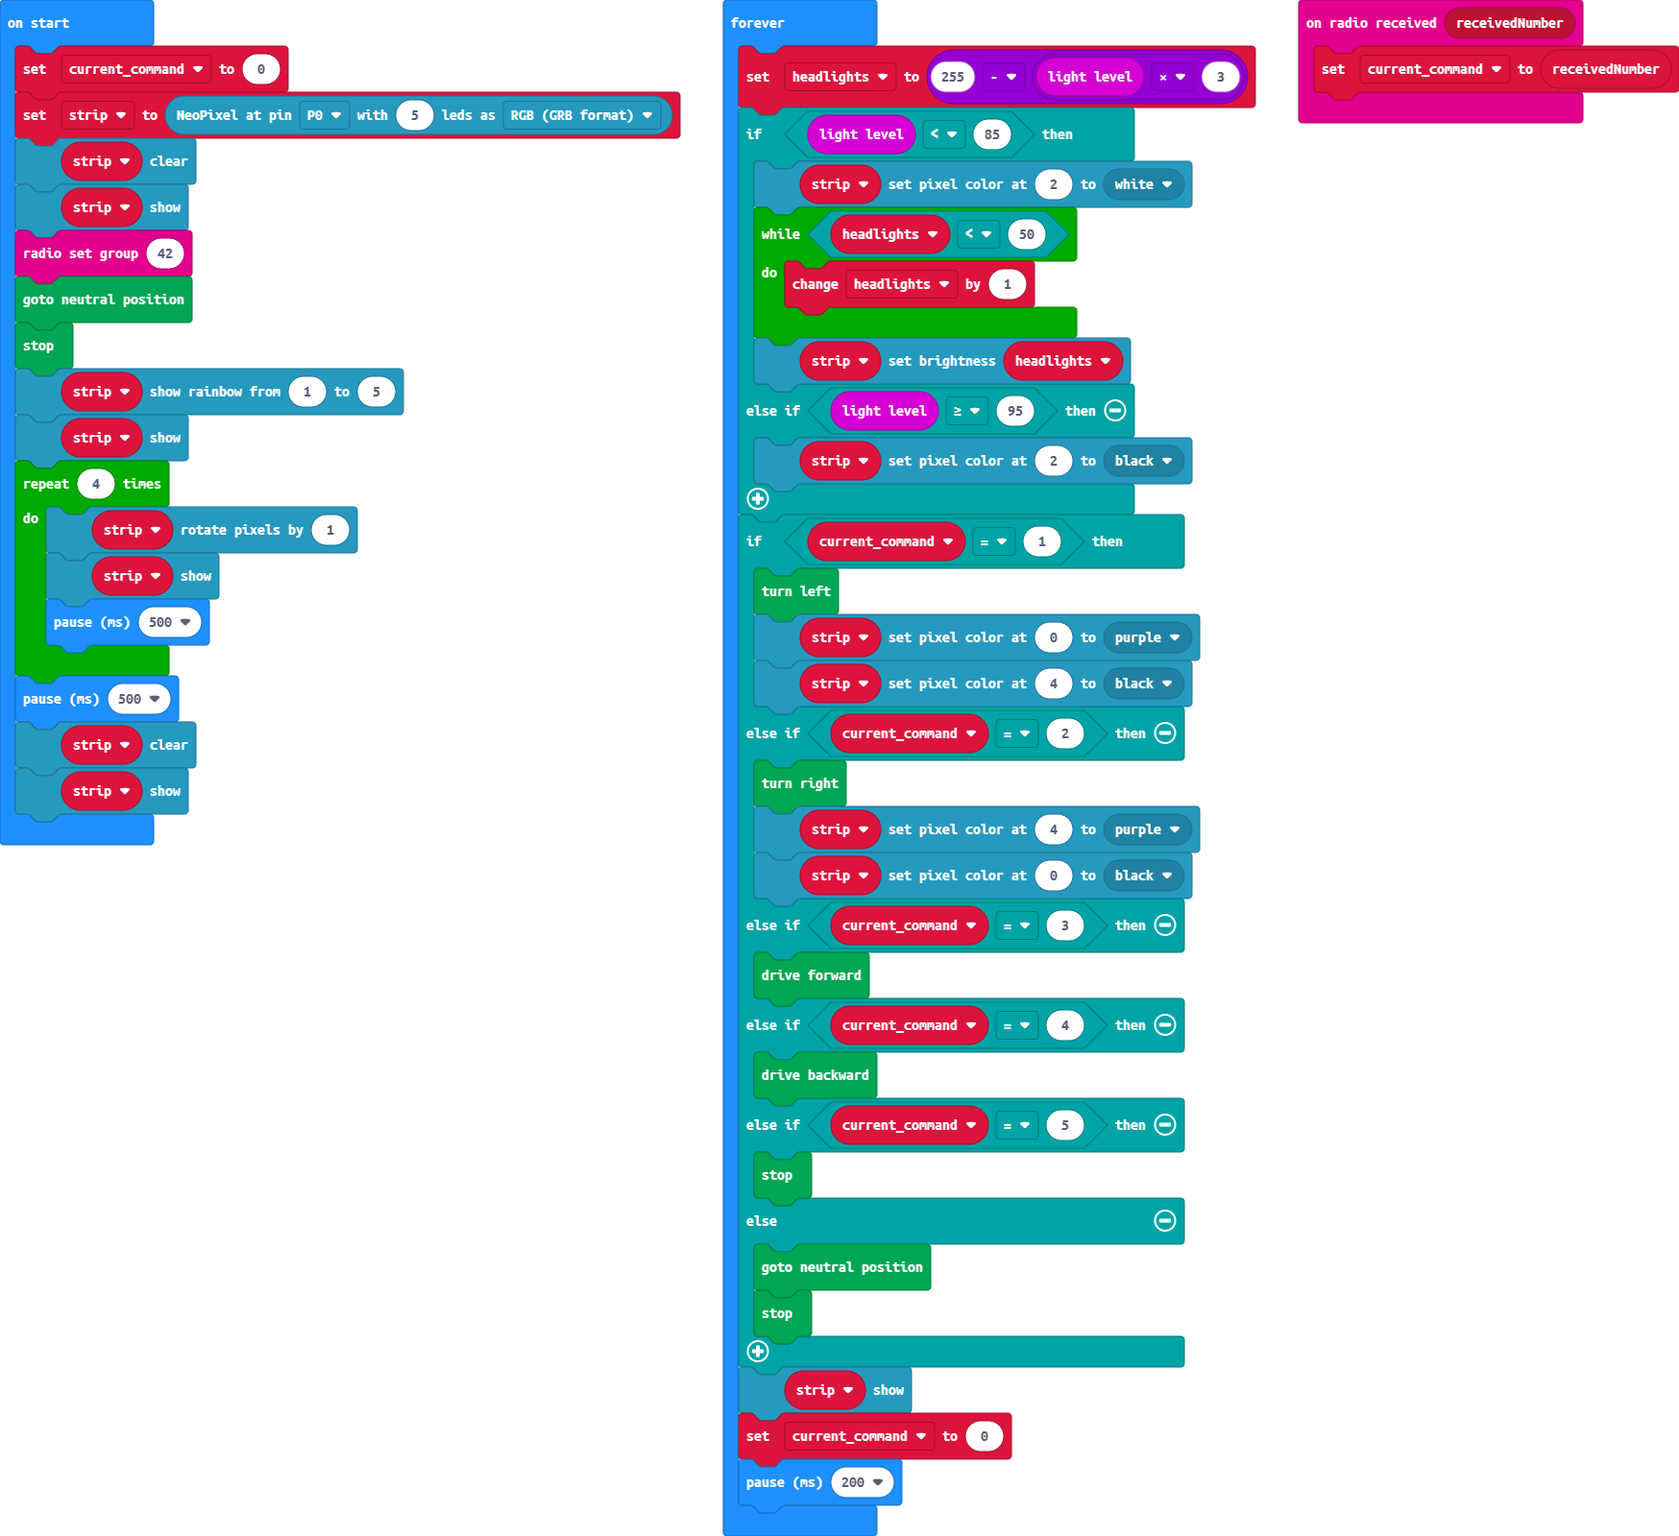
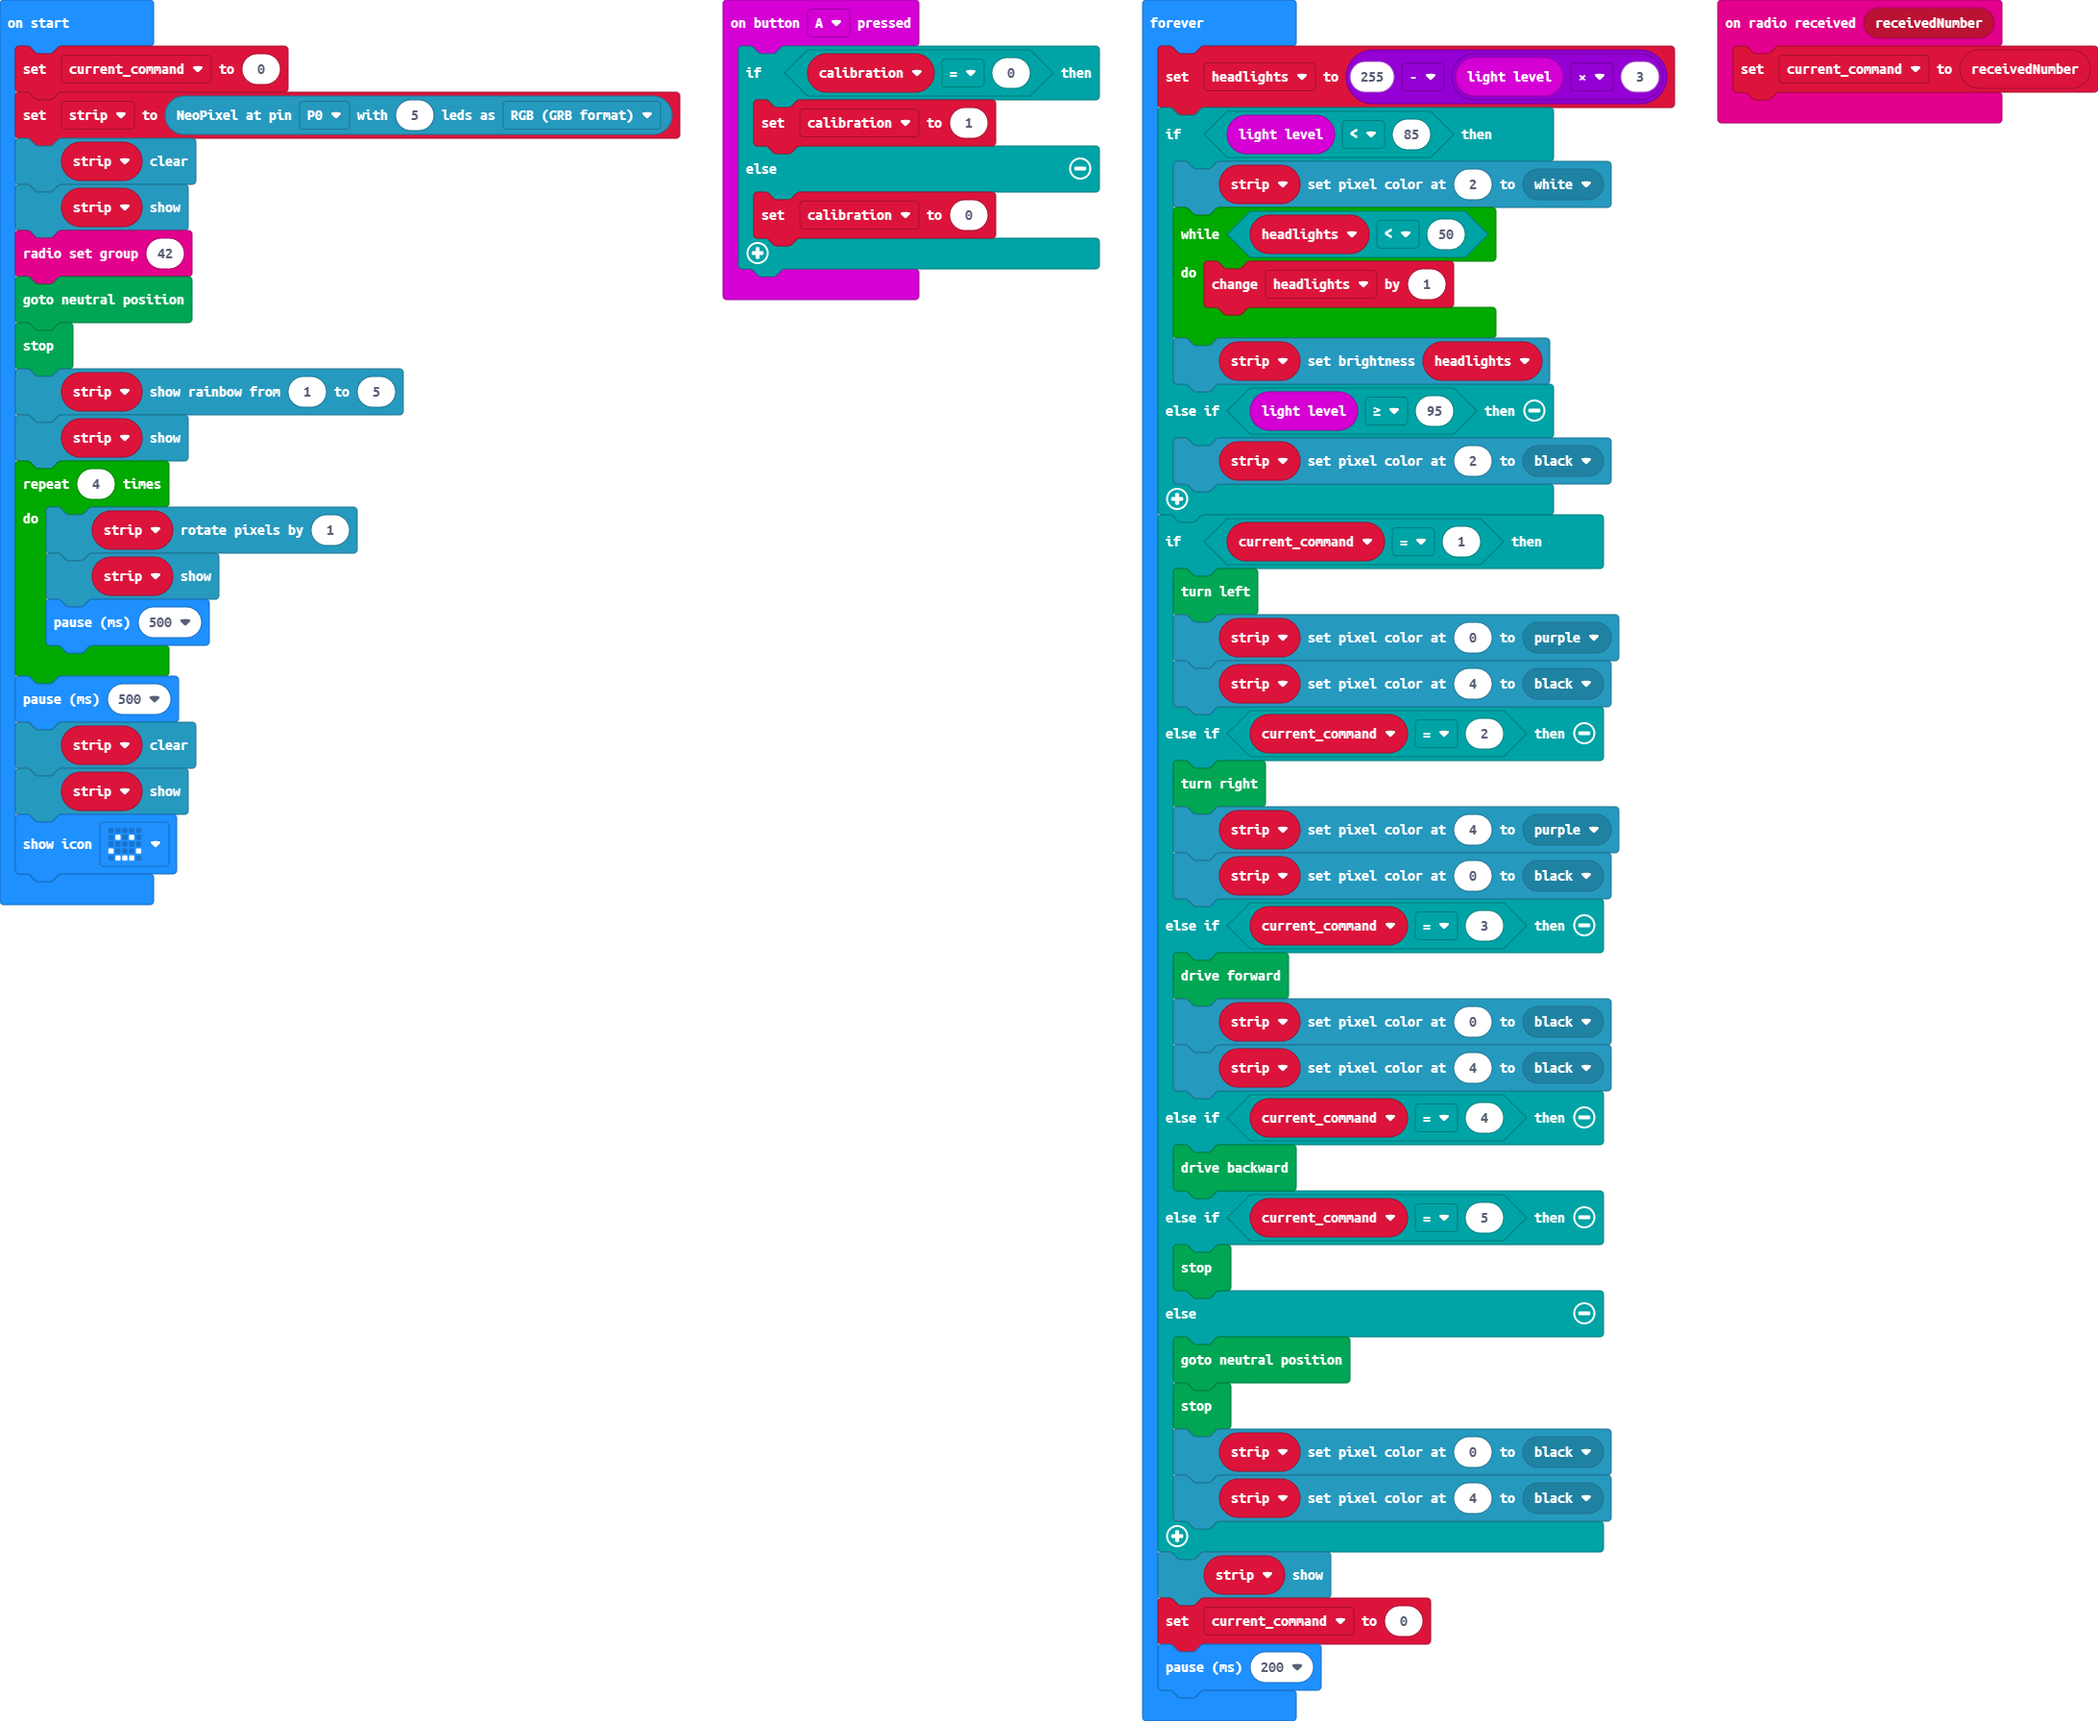
Added a smiling face.

diff --git a/main.ts b/main.ts
@@ -1,7 +1,15 @@
 radio.onReceivedNumber(function (receivedNumber) {
     current_command = receivedNumber
 })
+input.onButtonPressed(Button.A, function () {
+    if (calibration == 0) {
+        calibration = 1
+    } else {
+        calibration = 0
+    }
+})
 let headlights = 0
+let calibration = 0
 let current_command = 0
 current_command = 0
 let strip = neopixel.create(DigitalPin.P0, 5, NeoPixelMode.RGB)
@@ -20,6 +28,7 @@ for (let index = 0; index < 4; index++) {
 basic.pause(500)
 strip.clear()
 strip.show()
+basic.showIcon(IconNames.Happy)
 basic.forever(function () {
     headlights = 255 - input.lightLevel() * 3
     if (input.lightLevel() < 85) {
@@ -41,6 +50,8 @@ basic.forever(function () {
         strip.setPixelColor(0, neopixel.colors(NeoPixelColors.Black))
     } else if (current_command == 3) {
         kitronik_servo_lite.forward()
+        strip.setPixelColor(0, neopixel.colors(NeoPixelColors.Black))
+        strip.setPixelColor(4, neopixel.colors(NeoPixelColors.Black))
     } else if (current_command == 4) {
         kitronik_servo_lite.backward()
     } else if (current_command == 5) {
@@ -48,6 +59,8 @@ basic.forever(function () {
     } else {
         kitronik_servo_lite.neutral()
         kitronik_servo_lite.stop()
+        strip.setPixelColor(0, neopixel.colors(NeoPixelColors.Black))
+        strip.setPixelColor(4, neopixel.colors(NeoPixelColors.Black))
     }
     strip.show()
     current_command = 0
